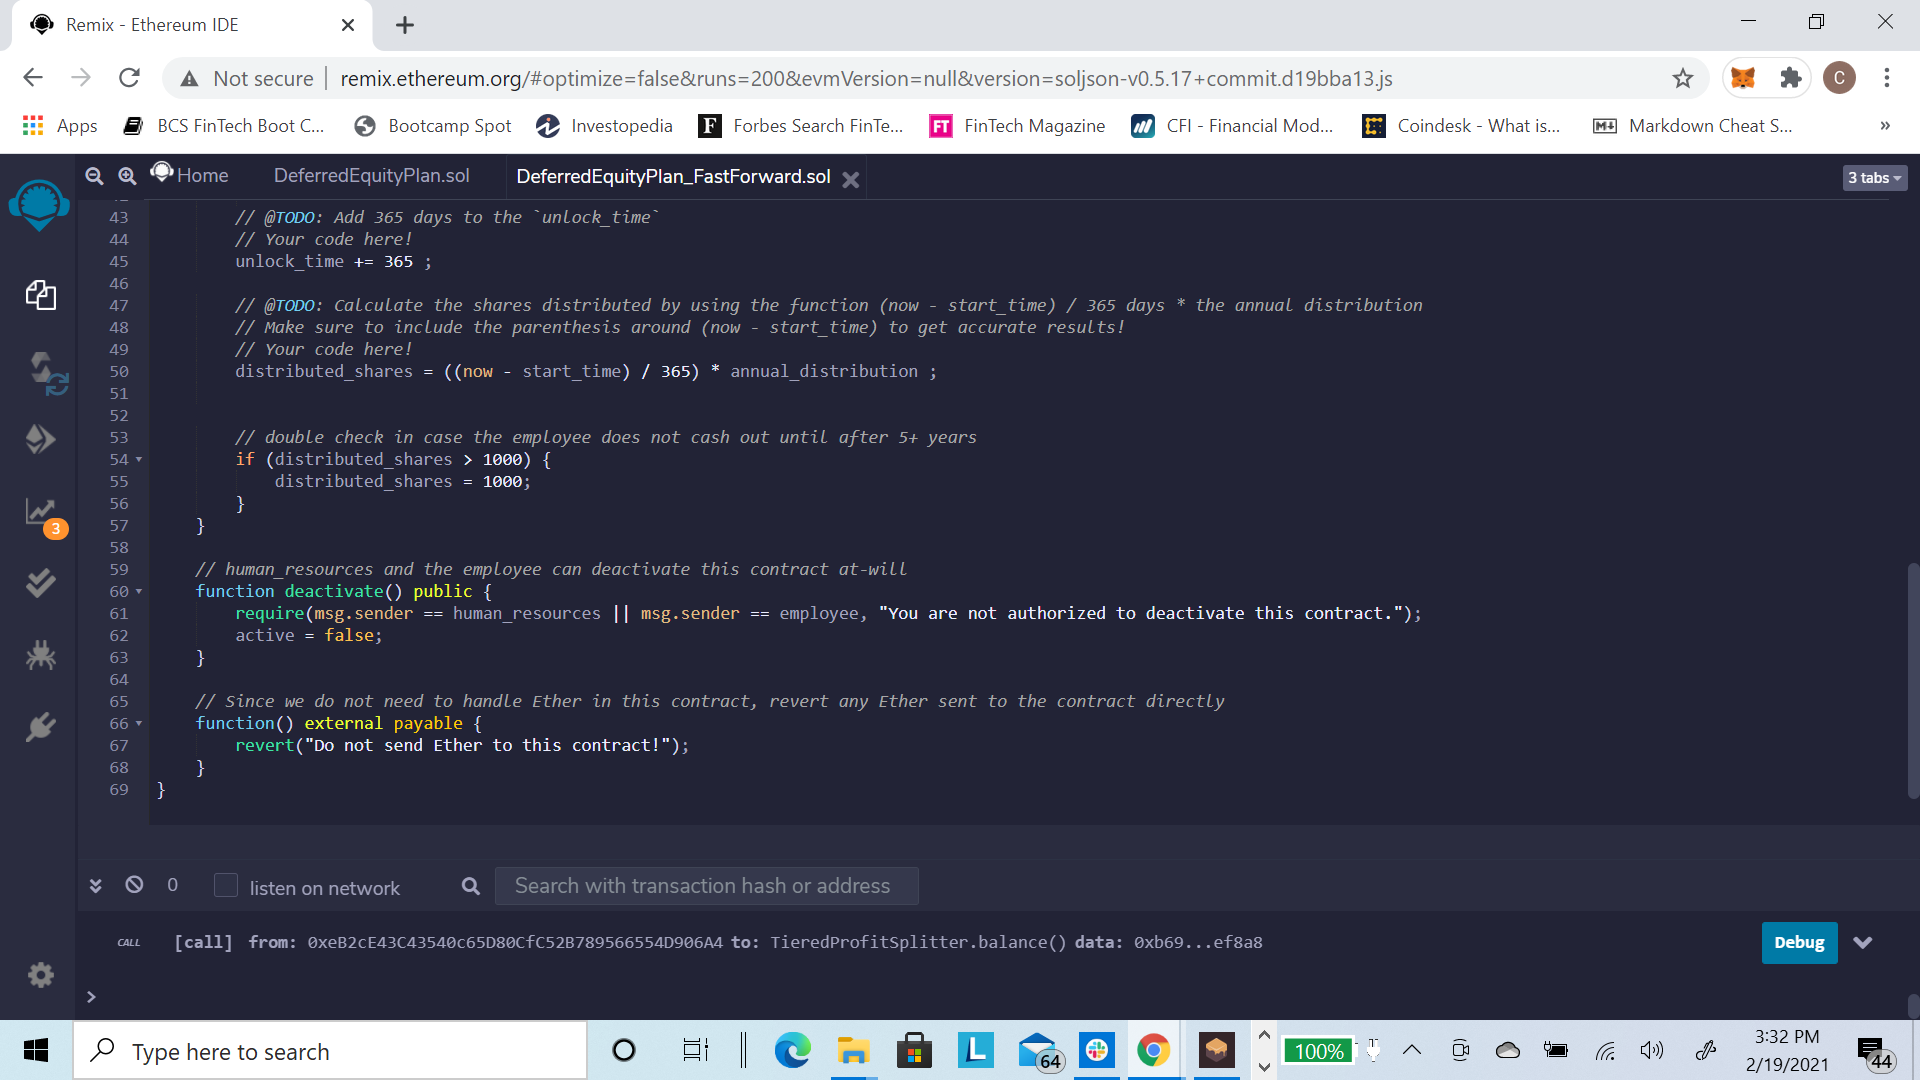
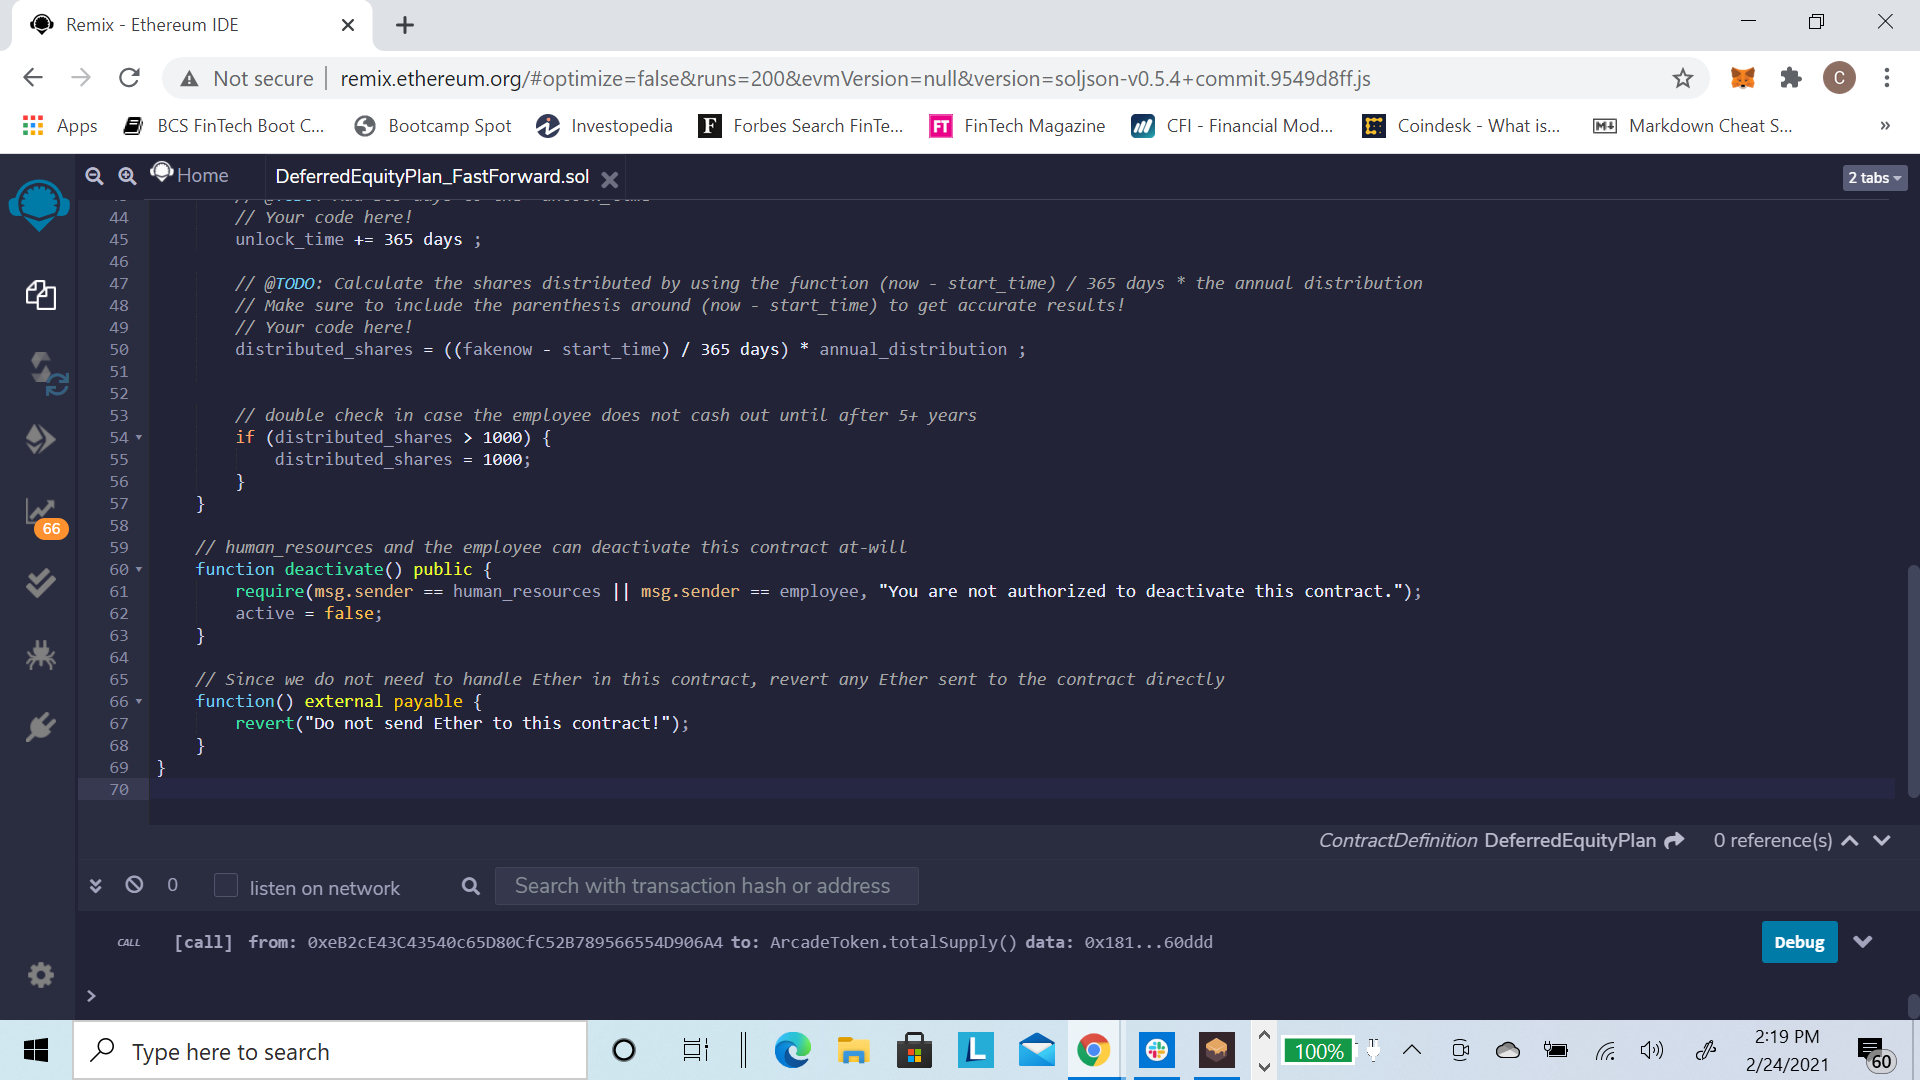
adding in revised DEP fast forward files and updated README.md

diff --git a/README.md b/README.md
@@ -119,7 +119,7 @@ The **Deferred Equity Plan** models traditional company deferred compensation pl
 |:---:|:---:|:---:|
 | Deferred Equity Plan - 1 | Deferred Equity Plan - 2 | Deferred Equity Plan - 3 |
 
-Because this contract has a lock period, there was a **DeferredEquityPlan_FastForward** contract created to test the functionality of the contract based on false dates. Also, because of limited ETH in my test HR wallet from Level 1 and Level 2 above, I will use 4 other wallets to test the code for the **Deferred Equity Plan**.
+Because this contract has a lock period, there was a **DeferredEquityPlan_FastForward** contract created to test the functionality of the contract based on false dates. The original instructions ask to test the contract using a fast forward date of += 100 days. However, the distribution for shares in this contract is on a yearly basis. Therefore, in order to properly test the contract, we will use a fakenow fast forward date of += 365 days.
 
 |![DEPFF1](./Screenshots/DEPFF1.png "Deferred Equity Plan Fast Forward 1") | ![DEPFF2](./Screenshots/DEPFF2.png "Deferred Equity Plan Fast Forward 2") | ![DEPFF3](./Screenshots/DEPFF3.png "Deferred Equity Plan Fast Forward 3") |
 |:---:|:---:|:---:|
@@ -127,23 +127,31 @@ Because this contract has a lock period, there was a **DeferredEquityPlan_FastFo
 
 After compiling the Fast Forward code, deploy the contract with 0 wei, for which there is a fee, or gas, charged to main wallet address (i.e. HR).
 
-|![DEPFFdeploy](./Screenshots/DEPFFdeploy.png "Deferred Equity Plan Fast Forward Deploy 1") | ![DEPFFMMconfirm](./Screenshots/DEPFFconfirm.png "Deferred Equity Plan Fast Forward MetaMask confirm") | ![DEPFFMMconfirmation](./Screenshots/DEPFFconfirmation.png "Deferred Equity Plan Fast Forward MetaMask confirmation") |
-|:---:|:---:|:---:|
-| Deferred Equity Plan Fast Forward Deploy | Deferred Equity Plan Fast Forward Deploy MetaMask Confirm | Deferred Equity Plan Fast Forward Deploy MetaMask Confirmation |
+|![DEPFFcompile](./Screenshots/DEPFFcompile.png "Deferred Equity Plan Fast Forward Compile") | ![DEPFFdeploy](./Screenshots/DEPFFdeploy.png "Deferred Equity Plan Fast Forward Deploy 1") 
+|:---:|:---:|
+| Deferred Equity Plan Fast Forward Compile | Deferred Equity Plan Fast Forward Deploy |
+
+| ![DEPFFMMconfirm](./Screenshots/DEPFFconfirm.png "Deferred Equity Plan Fast Forward MetaMask confirm") | ![DEPFFMMconfirmation](./Screenshots/DEPFFconfirmation.png "Deferred Equity Plan Fast Forward MetaMask confirmation") |
+|:---:|:---:|
+| Deferred Equity Plan Fast Forward Deploy MetaMask Confirm | Deferred Equity Plan Fast Forward Deploy MetaMask Confirmation |
 
 |![GanacheDEPFFTXNhist](./Screenshots/GanacheDFFTXNhist.png "Ganache Deferred Equity Plan Fast Forward TXH history") | ![GanacheDEPFFTXNdetail](./Screenshots/GanacheDFFTXNdetail.png "Ganache Deferred Equity Plan Fast Forward TXN Detail") | 
 |:---:|:---:|
 | Ganache - Deferred Equity Plan Fast Forward TXN History | Ganache - Deferred Equity Plan Fast Forward TXN Detail |
 
-Once deploying the contract sucessfully, test the distribute function by sending a transaction.
+Once deploying the contract sucessfully, we need to test the distribution. First we need to fast forward the contract date from today to 1 year from now by clicking on the fastforward button. Again, we are sending a transaction for 0 wei and a fee, or gas, is incurred. Once the fast forward transaction is successful, we can then click the distrbute button to see if our code works. Again, the distrbute is a transaction for 0 wei and there is a fee, or gas, on this transaction. Once the distribute transaction is successful, you can click the dstributed_shares button. As you can see, the transaction did distribute 250 shares sucessfully.
 
-|![DEPFFdist](./Screenshots/DFFdistribute.png "Deferred Equity Plan Fast Forward Distribute") | ![DEPFFdistMMconfirm](./Screenshots/DFFdistconfirm.png "Deferred Equity Plan Fast Forward Distribute MetaMask confirm") | ![DEPFFdistMMconfirmation](./Screenshots/DFFdistconfirmation.png "Deferred Equity Plan Fast Forward Distribute MetaMask confirmation") |
-|:---:|:---:|:---:|
-| Deferred Equity Plan Fast Forward Distribute | Deferred Equity Plan Fast Forward Distribute MetaMask Confirm | Deferred Equity Plan Fast Forward Distribute MetaMask Confirmation |
-
-|![GanacheDEPFFTXNhist](./Screenshots/GanacheDFFdistTXNhist.png "Ganache Deferred Equity Plan Fast Forward Distribute TXH history") | ![GanacheDEPFFTXNdetail](./Screenshots/GanacheDFFdistTXNdetail.png "Ganache Deferred Equity Plan Fast Forward Distribute TXN Detail") | 
+|![DEPFFfakenowMMconfirm](./Screenshots/DEPfakenowFF.png "Deferred Equity Plan Fast Forward FakeNow MetaMask confirm") | ![DEPFFfakenowMMconfirmation](./Screenshots/DEPfakenowFFconfirm.png "Deferred Equity Plan Fast Forward FakeNow MetaMask confirmation") |
 |:---:|:---:|
-| Ganache - Deferred Equity Plan Fast Forward TXN History | Ganache - Deferred Equity Plan Fast Forward TXN Detail |
+ Deferred Equity Plan Fast Forward FakeNow MetaMask Confirm | Deferred Equity Plan Fast Forward FakeNow MetaMask Confirmation |
+
+|![DEPFFdistMMconfirm](./Screenshots/DEPFFdistconfirm.png "Deferred Equity Plan Fast Forward Distribute MetaMask confirm") | ![DEPFFdistMMconfirmation](./Screenshots/DEPFFdistconfirmation.png "Deferred Equity Plan Fast Forward Distribute MetaMask confirmation") |
+|:---:|:---:|
+ Deferred Equity Plan Fast Forward Distribute MetaMask Confirm | Deferred Equity Plan Fast Forward Distribute MetaMask Confirmation |
+
+|![GanacheDEPFFTXNhist](./Screenshots/GanacheDEPFFTXNhist.png "Ganache Deferred Equity Plan Fast Forward Distribute TXH history") | ![GanacheDEPFFTXNdetail](./Screenshots/GanacheDFFfakenowTXNdetail.png "Ganache Deferred Equity Plan Fast Forward FakeNow TXN Detail") | ![GanacheDEPFFTXNdetail](./Screenshots/GanacheDFFdistTXNdetail.png "Ganache Deferred Equity Plan Fast Forward Distribute TXN Detail") | 
+|:---:|:---:|:---:|
+| Ganache - Deferred Equity Plan Fast Forward FakeNow & Distribute TXN History | Ganache - Deferred Equity Plan Fast Forward FakeNow TXN Detail | Ganache - Deferred Equity Plan Fast Forward Distribute TXN Detail |
 
 **CONGRATULATIONS!!** *We have successfully deployed and tested all 3 smart contracts. Now we can deploy these contracts to a live Testnet.*
 
